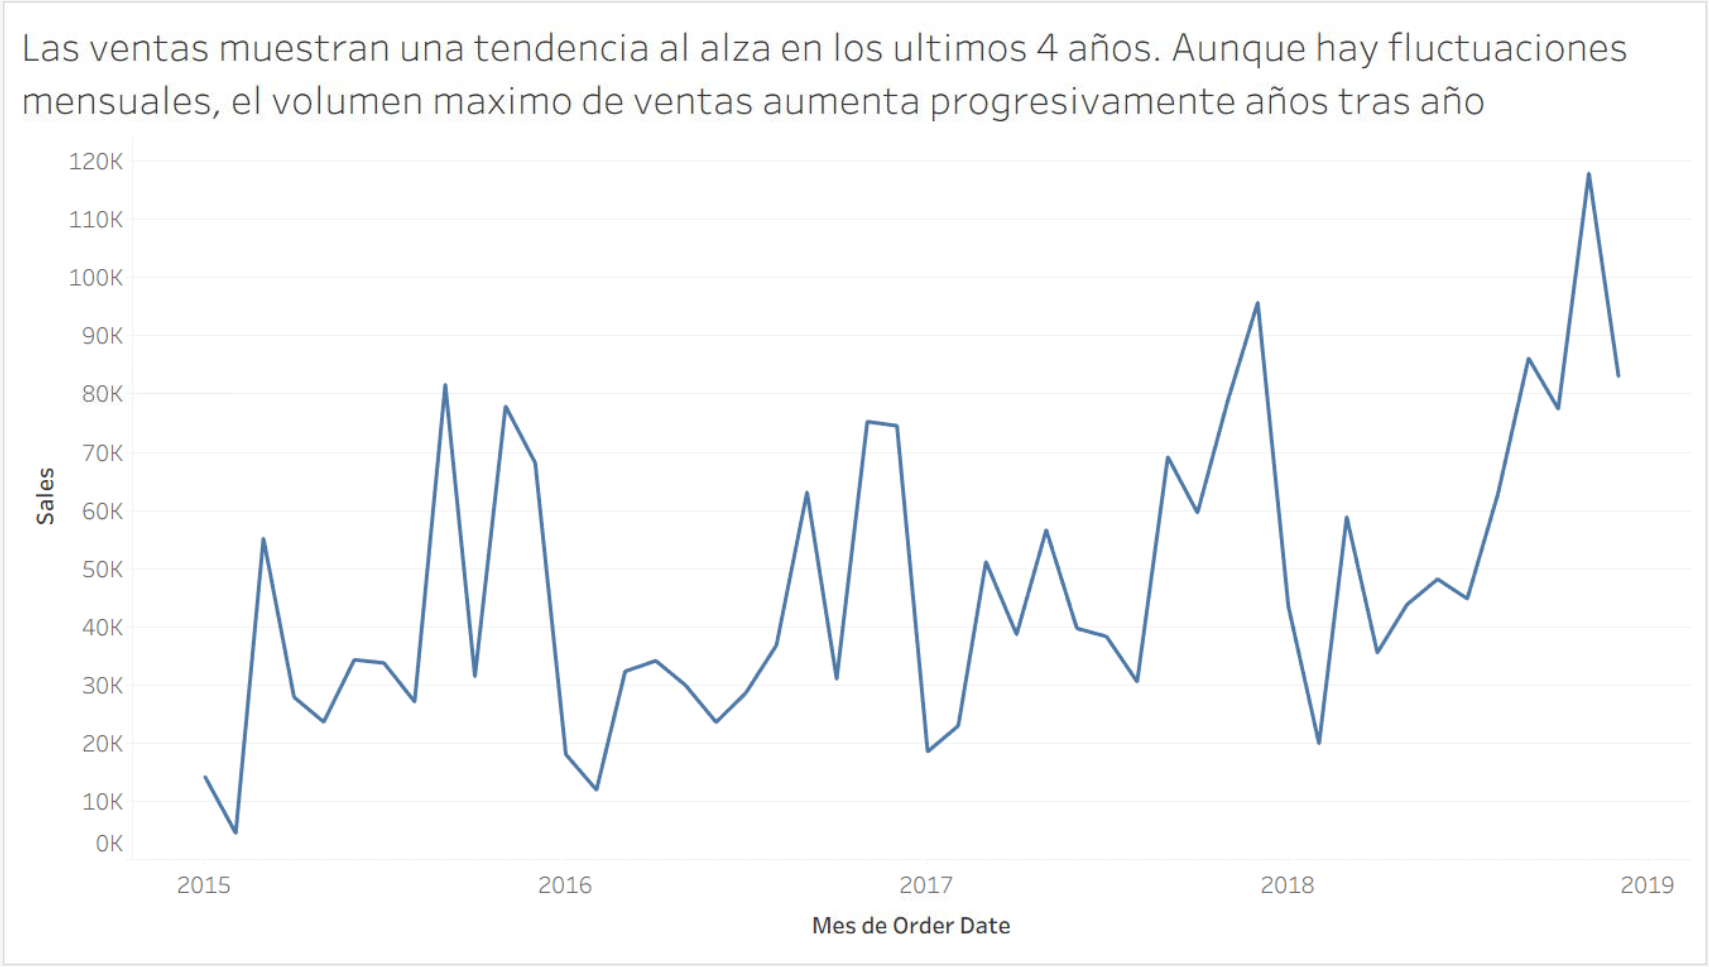
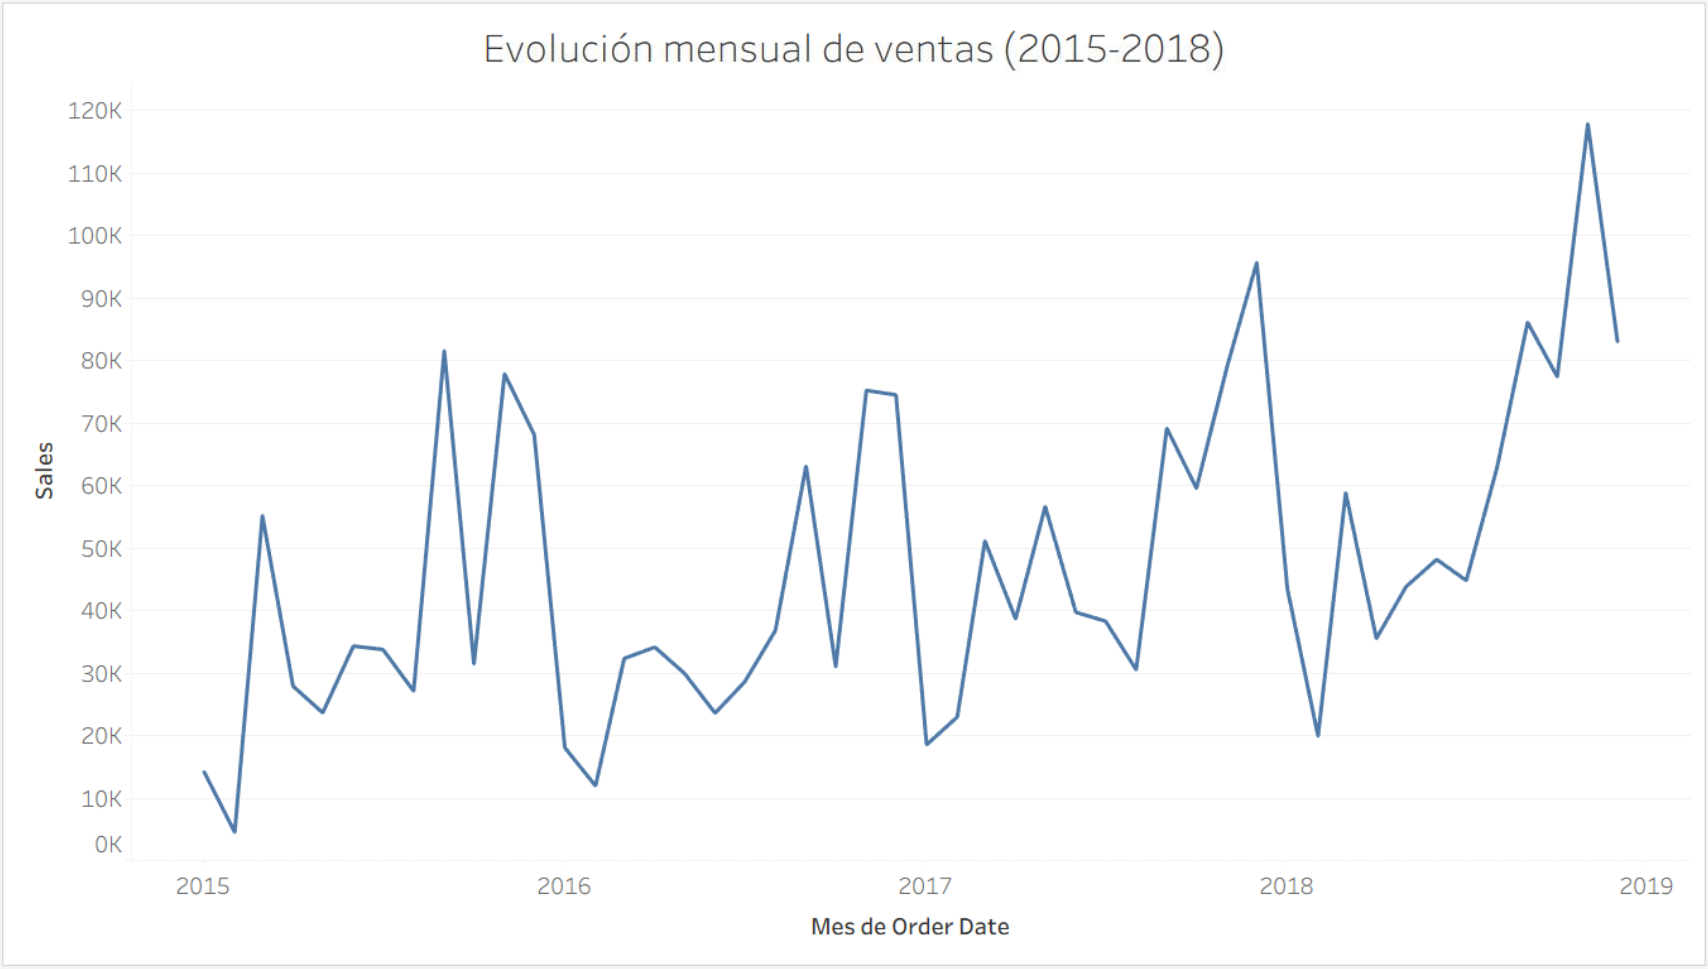
respuesta-3

diff --git a/README.md b/README.md
@@ -9,7 +9,7 @@ Tiempo asociado: desde 2 horas cronológicas.
 ## Descripción
 
 La gerencia comercial de una gran empresa de Retail de USA le pide a usted, como Data Analyst, una serie de visualizaciones que le permitan mostrar los resultados de los últimos 4 años de venta en la reunión de cierre de año. En ella se encontrarán presentes las más importantes jefaturas comerciales y de finanzas de las 4 regiones en donde opera la empresa (Sur, Centro, Este y Oeste), así como también la Gerencia General de la empresa.
-
+***
 1. Considerando la situación expuesta arriba y revisando el Dataset:
 
 a. ¿Cuál es su público objetivo?
@@ -20,23 +20,35 @@ b. ¿Cuál es la métrica o métricas que más le interesan al público objetivo
 
 c. Considerando su público, ¿cree que es recomendable agregar métricas financieras y lenguaje técnico o debiese ser lo más sencillo posible?
 **Considerando que el público es directivo, con perfiles comerciales y financieros, pero no necesariamente técnicos en visualización de datos, debe priorizarse lo más sencillo y claro posible.**  
-
+***
 2. La gerencia comercial le pide visualizar como las ventas han evolucionado a través del tiempo.
 
-a. Cree un gráfico de líneas que muestre mes a mes la evolución de las ventas a nivel general. Analice la tendencia de las ventas, ¿está al alza o a la baja?
-[Ver dashboard en Tableau Public](https://public.tableau.com/app/profile/manuel.cabezas/viz/desafio-analizando-ventas/2a)
+a. Cree un gráfico de líneas que muestre mes a mes la evolución de las ventas a nivel general.  
+📊 [Ver en Tableau Public](https://public.tableau.com/app/profile/manuel.cabezas/viz/desafio-analizando-ventas/2a)
 
-![Descripción de la imagen](2a.png)
-b. Cree un gráfico de barras por año, en donde el color sea la región, ¿la tendencia de las ventas se debe a alguna región en particular? Comente.
-[Ver dashboard en Tableau Public](https://public.tableau.com/app/profile/manuel.cabezas/viz/desafio-analizando-ventas/2b)
+![imagen 2a](2a.png)
+Analice la tendencia de las ventas, ¿está al alza o a la baja?  
+**Las ventas muestran una tendencia al alza en los últimos 4 años. Aunque hay fluctuaciones mensuales, el volumen máximo de ventas aumenta progresivamente años tras año**
+b. Cree un gráfico de barras por año, en donde el color sea la región,  
+📊 [Ver en Tableau Public](https://public.tableau.com/app/profile/manuel.cabezas/viz/desafio-analizando-ventas/2b)
 
-![Descripción de la imagen](2b.png)
+![imagen 2b](2b.png)  
+¿la tendencia de las ventas se debe a alguna región en particular? Comente.
+**El crecimiento es impulsado principalmente por West y East. West superó los 240K en 2018 y East muestra una tendencia sostenida al alza.**  
+***
 3. La gerencia comercial está pensando en cerrar tiendas en ciertos estados, para ello, quiere ver cuáles son los estados que más aportan a las ventas.
 
-a. Genere un gráfico de mapa en donde tanto el texto como el color indiquen el nivel de ventas.
+a. Genere un gráfico de mapa en donde tanto el texto como el color indiquen el nivel de ventas.  
+📊 [Ver en Tableau Public](https://public.tableau.com/app/profile/manuel.cabezas/viz/desafio-analizando-ventas/3a)
 
-b. Dado que la empresa trabaja por regiones, genere el mismo gráfico, pero añada un campo calculado que permita ver cuánto es el aporte de cada estado en porcentaje, respecto de las ventas de su región (Tip: Ocupe funciones LOD) ¿Hay algún estado que pareciera tener bajas ventas, pero sea un gran aporte dentro de su región?
+![imagen 3a](3a.png)
+b. Dado que la empresa trabaja por regiones, genere el mismo gráfico, pero añada un campo calculado que permita ver cuánto es el aporte de cada estado en porcentaje, respecto de las ventas de su región (Tip: Ocupe funciones LOD)  
+📊 [Ver en Tableau Public](https://public.tableau.com/app/profile/manuel.cabezas/viz/desafio-analizando-ventas/3b)
 
+![imagen 3b](3b.png)
+¿Hay algún estado que pareciera tener bajas ventas, pero sea un gran aporte dentro de su región?
+**Sí. Estados como Michigan y Florida tienen ventas bajas frente a los líderes de sus regiones, pero aportan un 15,5% y 16,1% respectivamente al total de sus regiones (Central y South). Son estados estratégicos dentro de su región aunque a nivel nacional no destaquen.**
+***
 ## Requerimientos
 
 1. Identifica el público objetivo y qué consideraciones debe tener al momento de generar una visualización para ese público. (2 Puntos)
